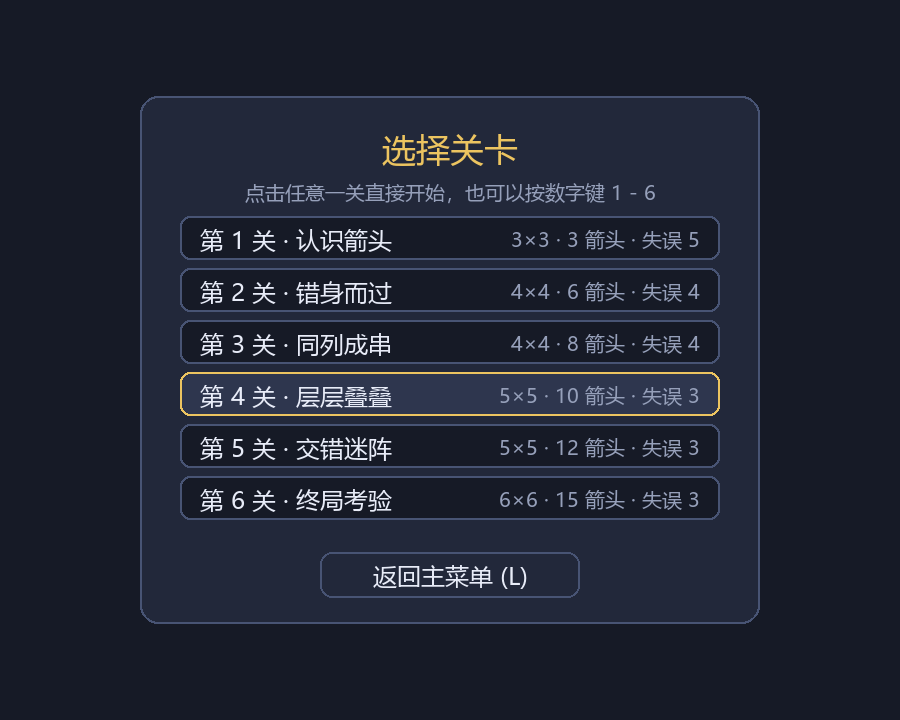
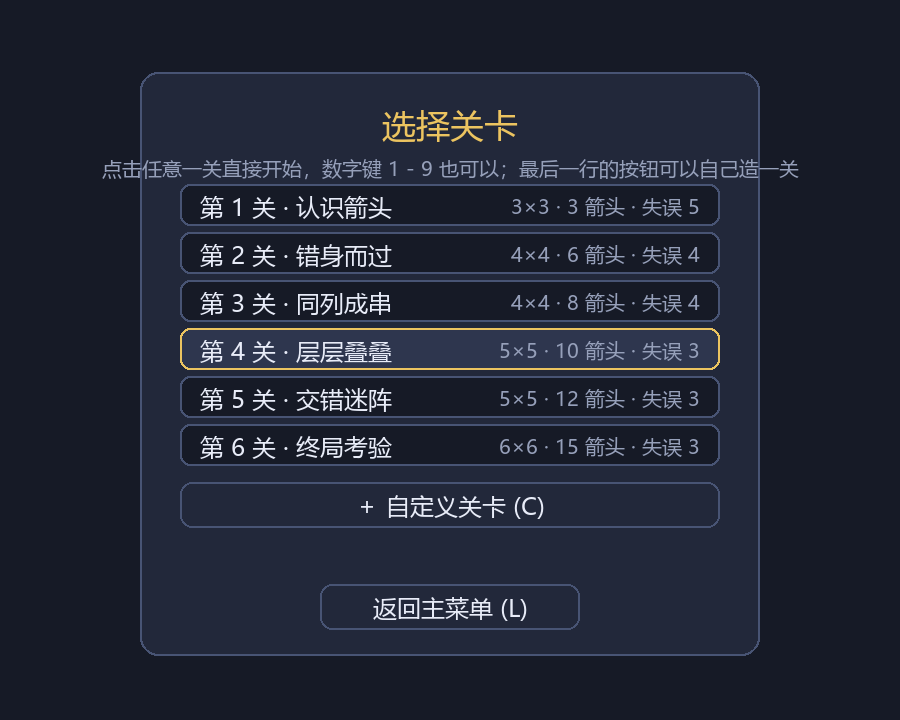
docs: 更新 README、测试记录、AIGC 记录与界面截图
- README：新增「自定义关卡」章节（参数范围、生成流程、难度评分）与两张新截图
- docs/test-record.md：新增第 7 节「自定义关卡测试补充」与 5 条新问题记录
- docs/aigc-log.md：新增第 9 次协作记录与总览表条目
- tools/capture_screens.py：增出自定义面板与自定义关卡截图（8 → 10 张）

diff --git a/tools/capture_screens.py b/tools/capture_screens.py
@@ -10,6 +10,7 @@
 from __future__ import annotations
 
 import os
+import random
 import sys
 from pathlib import Path
 
@@ -20,7 +21,9 @@ ROOT = Path(__file__).resolve().parents[1]
 sys.path.insert(0, str(ROOT))
 
 from game.app import Game  # noqa: E402
+from game.generator import Difficulty  # noqa: E402
 from game.session import Phase  # noqa: E402
+from game.setup import FIELD_ARROWS, FIELD_COLS, FIELD_ROWS  # noqa: E402
 from game.solver import solve  # noqa: E402
 from game.ui import layout  # noqa: E402
 
@@ -125,6 +128,27 @@ def main() -> int:
         else:
             session.next_level()
     shoot("07-all-clear.png")
+
+    # 9. 自定义关卡设置面板：地图大小 / 箭头数量 / 难度
+    session.back_to_menu()
+    session.open_level_select()
+    session.open_custom_setup()
+    setup = session.custom_setup
+    setup.set_value(FIELD_ROWS, 5)
+    setup.set_value(FIELD_COLS, 5)
+    setup.set_value(FIELD_ARROWS, 12)
+    setup.set_difficulty(Difficulty.HIGH)
+    setup.focus_on(FIELD_ARROWS)
+    game.screens.update(0.0)
+    shoot("01c-custom-setup.png")
+
+    # 10. 玩自定义关卡（固定随机种子，保证截图可以复现）
+    session.start_generated_custom_level(random.Random(2026))
+    game.screens.update(0.0)
+    screen.pointer = layout.cell_rect(
+        layout.board_rect(session.board.rows, session.board.cols), *first_free(session)
+    ).center
+    shoot("01d-custom-level.png")
 
     return 0
 

diff --git a/docs/test-record.md b/docs/test-record.md
@@ -17,9 +17,9 @@
 
 ```text
 $ python -m unittest discover -s tests -t . -v
-......................................................................
+.....................................................................................................................................
 ----------------------------------------------------------------------
-Ran 70 tests in 1.835s
+Ran 133 tests in 4.380s
 
 OK
 ```
@@ -28,9 +28,11 @@ OK
 | --- | --- | --- |
 | `tests/test_board.py` | 20 | 棋盘构造、字符解析、四种方向的路径检测、边界与负索引回归 |
 | `tests/test_levels.py` | 8 | 关卡数据合法性、箭头数量、每关可解、解序列可清空棋盘 |
-| `tests/test_session.py` | 30 | 失误、通关、失败、重新开始、撤销、计时、统计、选择关卡 |
-| `tests/test_ui_smoke.py` | 12 | 界面层事件接线、六个阶段渲染、选关交互、pygame 重启回归 |
-| **合计** | **70** | 全部通过 |
+| `tests/test_generator.py` | 19 | 生成参数夹紧、箭头数量上限、难度评分排序、2×2–6×6 全部箭头数量都能生成可解关卡 |
+| `tests/test_setup.py` | 19 | 自定义表单的范围夹紧、棋盘缩小后箭头数量联动、难度切换与生成 |
+| `tests/test_session.py` | 44 | 失误、通关、失败、重新开始、撤销、计时、统计、选择关卡、自定义关卡流程 |
+| `tests/test_ui_smoke.py` | 23 | 界面层事件接线、八个阶段渲染、选关与自定义面板交互、pygame 重启回归 |
+| **合计** | **133** | 全部通过 |
 
 ## 3. 作业要求的测试用例（T01–T06）
 
@@ -87,11 +89,46 @@ OK
 | 6 | 统计错误 | 全部通关界面显示「通关 7 / 6 关」 | 重复通关同一关会重复计数；改为用集合记录已通关关卡，重复通关只算一次 | 通过 |
 | 7 | 环境问题 | `pip install pygame` 长时间无进展 | 直连 PyPI 速度过慢；改用清华镜像 `-i https://pypi.tuna.tsinghua.edu.cn/simple` | 安装成功 |
 | 8 | 进程崩溃（新增选关功能后） | 测试进程在第二个「会绘制界面」的用例上直接崩溃，退出码 `0xC0000005`（访问违例） | 字体与箭头贴图被 `lru_cache` 缓存，`pygame.quit()` 后底层资源已释放，重新 `init` 再绘制就会崩；在两个模块加 `clear_cache()`，`Game` 初始化时调用 | 加 `test_survives_restarting_pygame` 回归用例，70 条全绿 |
+| 9 | 生成器覆盖不到高密度（新增自定义关卡时） | 箭头数量接近格子总数（例如 6×6 摆 36 个）时，随机摆放反复摆不满，`generate()` 拿不到任何候选 | 只靠「随机摆放」无法覆盖全部参数；补一套「洋葱式摆放」兜底：按离最近的边分层，从内层往外层逆向摆放，于是 1..行×列 的任意数量都能构造出可解关卡 | 2×2–6×6 共 325 组「大小 × 箭头数」自检，箭头数量全部正确、求解器复核全部通过 |
+| 10 | 参数联动缺失 | 把棋盘从 6×6 改小到 3×3 之后，箭头数量仍然可以是 36，超过新的格子总数 | 行/列变化后没有重新夹紧箭头数量；在 `CustomSetup.set_value()` 里补上「先改大小、再夹箭头」，界面上到上下限时把 `＋` / `－` 置灰 | 新增用例 `test_shrinking_the_board_clamps_the_arrow_count` 等，通过 |
+| 11 | 返回值语义不一致 | `CustomSetup._clamp_arrows()` 不管有没有变化都返回 `True`，和 `set_value()` 文档里「有变化才返回 True」矛盾 | 改成分支各自记录变化、只有真的夹紧时才返回 `True` | 相关用例通过 |
+| 12 | 测试样例本身无解 | 想用 `(">>", "<.")` 作为「被挡得更多」的对照样例，`score()` 却返回 -1，用例必然失败 | 这三个箭头互相挡死、谁也飞不出去，本身就是无解布局；换成 `(">v", "<.")`，分数 0.87 明显高于对照样例的 0.15 | 用例通过 |
+| 13 | 界面用例被新阶段影响 | 新增自定义面板后，`test_every_phase_can_be_rendered` 在「自定义面板」阶段直接点「开始游戏」按钮不会生效（该按钮不属于当前面板），后续快照全错位 | 快照序列里先 `back_to_menu()` 再开始游戏；同时把自定义面板与选关界面也纳入快照 | 快照数从 5 改为 7，通过 |
 
 ## 6. 运行与打包验证
 
 | 验证项 | 命令 | 结果 |
 | --- | --- | --- |
-| 离屏渲染截图 | `python tools/capture_screens.py` | 生成 8 张截图（含选关界面），无异常 |
-| 界面冒烟测试 | `python -m unittest tests.test_ui_smoke -v` | 12 个用例通过，六个阶段渲染正常 |
+| 离屏渲染截图 | `python tools/capture_screens.py` | 生成 10 张截图（含选关界面、自定义面板与自定义关卡），无异常 |
+| 界面冒烟测试 | `python -m unittest tests.test_ui_smoke -v` | 23 个用例通过，八个阶段渲染正常 |
 | 关卡数据自检 | `python tools/level_stats.py` | 6 关合计 54 个箭头，全部可解 |
+| 生成器全参数自检 | 遍历 2×2–6×6 的每种大小、每个箭头数量、三档难度 | 975 组参数全部「箭头数量正确 + 可解」 |
+
+## 7. 自定义关卡（附加功能）的测试补充
+
+| 编号 | 测试内容 | 预期结果 | 对应自动化用例 | 实际结果 | 是否通过 |
+| --- | --- | --- | --- | --- | --- |
+| C01 | 选关界面点「＋ 自定义关卡」 | 进入自定义关卡设置面板 | `test_custom_button_opens_the_setup_panel`、`test_c_key_opens_the_custom_panel` | 阶段变为「自定义关卡设置」，面板正常绘制 | 通过 |
+| C02 | 步进按钮调大 / 调小行数 | 数值按 1 增减，到上下限后按钮失效 | `test_stepper_buttons_change_the_board_size`、`test_plus_button_is_disabled_at_the_limit` | 行数 5 → 6 → 5；到 6 之后再点「＋」不再变化 | 通过 |
+| C03 | 棋盘从 6×6 改成 5×6 | 箭头数量自动夹到新上限 30 | `test_shrinking_the_board_clamps_the_arrows_in_the_panel`、`test_shrinking_the_board_clamps_the_arrow_count` | 36 → 30，面板数值同步刷新 | 通过 |
+| C04 | 箭头数量超出格子总数 | 夹到「行 × 列」，下限 1 | `test_arrows_stay_between_one_and_the_cell_count`、`test_max_arrows_follows_the_board_size` | 2×3 棋盘输入 99 → 6，输入 -99 → 1 | 通过 |
+| C05 | 三档难度用 best_layout 评分区分 | 高难度分数 ≥ 中 ≥ 低 | `test_difficulty_picks_from_the_same_candidate_pool`、`test_mistake_budget_follows_the_difficulty` | 同一批候选下三档评分单调不减；高难度失误次数更少 | 通过 |
+| C06 | 2×2–6×6、每个箭头数量都生成一关 | 箭头数量正确且一定有解 | `test_every_size_and_density_is_solvable`、`test_onion_layout_handles_every_density` | 325 组参数全部「数量正确 + 可解 + 解序列长度等于箭头数」 | 通过 |
+| C07 | 生成并开始自定义关卡 | 进入第 7 关并能正常通关 | `test_generate_button_starts_a_custom_level`、`test_custom_level_can_be_cleared_and_is_the_last_one` | HUD 显示「关卡 7 / 7」，清空后进入「全部通关」 | 通过 |
+| C08 | 重复生成自定义关卡 | 只占一个槽位（列表仍是 7 行） | `test_generating_twice_replaces_the_same_slot` | 关卡数量保持 7，最后一行换成新的布局 | 通过 |
+| C09 | 自定义关卡里重新开始 / 撤销 | 布局与失误次数还原，撤销不消耗失误 | `test_restart_restores_the_custom_level`、`test_undo_works_inside_a_custom_level` | 与内置关卡行为一致 | 通过 |
+| C10 | 界面自检：自定义面板与自定义关卡都能画出来 | 不抛异常、面板里各控件不重叠 | `test_every_phase_can_be_rendered`（7 张快照）、`tools/capture_screens.py` | 截图从 8 张增加到 10 张，人工核对无重叠 | 通过 |
+
+本人实际试玩自定义关卡的记录：
+
+| 设置 | 是否通关 | 备注 |
+| --- | --- | --- |
+| 3×3 / 4 箭头 / 低难度 | 待填写 | |
+| 5×5 / 12 箭头 / 中难度 | 待填写 | |
+| 6×6 / 20 箭头 / 高难度 | 待填写 | 开局被挡的箭头明显更多 |
+
+## 8. 结论
+
+- 全部 133 条自动化测试通过，作业要求的 T01–T06 与界面冒烟测试都在其中。
+- 内置 6 关与随机生成的自定义关卡都由求解器验证过存在通关顺序，不存在「实际上无法通关」的关卡。
+- 内置关卡由本人逐关试玩确认（见第 4 节表格），自定义关卡的试玩记录见第 7 节。

diff --git a/docs/aigc-log.md b/docs/aigc-log.md
@@ -11,11 +11,12 @@
 | 关卡生成 | Codex | 提出「逆向摆放」构造法：按消除顺序倒着摆箭头，保证关卡必然可解；并写出贪心求解器验证 | 6 关布局全部保证有解，没有再出现「关卡无解」 | 第 1 关改手写的 3 箭头教学关；布局按「开局被挡箭头数」人工挑选 |
 | 路径检测 | Codex | 给出四种方向的路径检测实现，并指出「用 `grid[row-1]` 在 `row=0` 时会负索引绕到棋盘底部」这个坑 | 核心逻辑一次写对 | 保留显式边界判断的 while 循环写法，补 `test_negative_index_wraparound_regression` 回归用例 |
 | 单元测试 | Codex | 生成 58 条 unittest 用例（棋盘 20 / 关卡 8 / 流程 23 / 界面 7） | 首次运行就有 3 个用例失败、5 个用例报错 | 定位到是测试代码自身三处错误（详见下文），修正后全部通过 |
-| 界面截图 | Codex | 用 SDL 的 dummy 驱动离屏渲染，写脚本自动生成 7 张界面截图 | 不需要人工操作就拿到 README 与博客素材，并暴露出两处视觉缺陷 | 修正浮字位置与结果面板布局后重新出图确认 |
+| 界面截图 | Codex | 用 SDL 的 dummy 驱动离屏渲染，写脚本自动生成界面截图（目前共 10 张） | 不需要人工操作就拿到 README 与博客素材，并暴露出两处视觉缺陷 | 修正浮字位置与结果面板布局后重新出图确认 |
 | 通关统计 | Codex | 初版每清空一关就 `cleared_levels += 1` | 截图中出现「通关 7 / 6 关」的错误统计 | 改为用集合记录已通关关卡，重复通关只算一次，并补测试 |
 | 动画与输入 | Codex | 建议动画播放期间锁定输入，避免一次点击被重复结算 | 点击手感稳定，不再出现连点误判 | 只锁鼠标点击，保留键盘与窗口事件的响应；补 UI 冒烟测试用例 |
 | 打包 exe | Codex | 给出 PyInstaller 打包命令与 `tools/build_exe.py` | `dist/ArrowArrowGame.exe`（约 27 MB）双击即可运行 | 可执行文件用 ASCII 名避免中文名带来的路径问题；`dist/`、`build/`、`*.spec` 加入 .gitignore |
 | 选关功能 | Codex | 新增 `LEVEL_SELECT` 阶段与「选择关卡」界面：关卡列表、鼠标命中、数字键 1–6 直接开局 | 主菜单可以直接挑任意一关开始，见 `docs/screenshots/01b-level-select.png` | 面板改成整屏绘制避免背后标题透出半截鬼影；把自检时发现的进程崩溃定位到字体/贴图缓存 |
+| 自定义关卡 | Codex | 新增 `game/generator.py`（随机摆放 + 洋葱式兜底 + best_layout 评分）、`game/setup.py` 参数表单、`Phase.CUSTOM_SETUP` 面板与 63 条新用例 | 2×2–6×6、任意箭头数量都能生成保证有解的关卡，三档难度按评分挑候选，见 `docs/screenshots/01c-custom-setup.png` | 修正「棋盘变小后箭头数不夹紧」、「夹紧函数返回值语义」、「拿无解样例当难度对照」三处问题；面板加高、入口按钮按关卡数量动态定位，避免与返回按钮挤在一起 |
 
 ## 详细过程
 
@@ -149,6 +150,42 @@ r_i…rn，所以只要按 rn…r1 的顺序摆放，并且摆放每个箭头时
 `test_survives_restarting_pygame`（绘制一次 → 退出 pygame → 新建 Game 再绘制）。
 顺带把选关面板从「半透明覆盖在主菜单上」改成整屏面板，避免背后的标题透出半截。
 
+### 9. 增加「自定义关卡」：让玩家自己定大小、箭头数和难度
+
+**我提出的要求**：在选关界面六关下面再加一个「自定义关卡」入口，让玩家自己输入地图大小
+（几×几，你帮我定一个范围保证界面不出问题）、初始箭头数量（大小定好之后自动算出理论上限、
+下限 1 个）、难度（高/中/低三档，用 best_layout 衡量）；随机生成的关卡先用求解器保证有解，
+再按难度挑候选；做完自动测试并提交。
+
+**AI 的做法**：把功能拆成三层——
+
+1. `game/generator.py`：候选生成与评分。参数范围定为 2×2 到 6×6（上限沿用界面里按 6×6
+   设计的棋盘尺寸），箭头数量上限就是格子总数，下限 1；
+2. `game/setup.py`：表单模型 `CustomSetup`，负责夹紧取值范围、在行/列变化后联动箭头数量上限；
+3. `game/session.py` + `game/ui/screens.py`：新增 `Phase.CUSTOM_SETUP` 阶段，选关面板下面按
+   「已有关卡数量」动态定位一个入口按钮，面板里是三行「− 数值 ＋」步进、三个难度按钮和生成按钮。
+
+**效果**：功能可用，但过程中有三处需要我自己判断的问题：
+
+1. **高密度摆不满**。第一版只会「随机摆放」，箭头数量接近格子总数（例如 6×6 摆 36 个）时
+   反复摆不满，`generate()` 会一个候选都拿不到。AI 补了一套「洋葱式摆放」：按离最近的边有多远
+   给格子分层，从内层往外层逆向摆放——一个箭头指向最近的边时，它前方只可能是更外圈的格子，
+   而那些箭头会更早被消除，于是 1..行×列 的任意数量都能构造出可解关卡。
+   我用 2×2 到 6×6 的全部箭头数量跑了 325 组自检，箭头数量全部正确、求解器复核全部通过。
+2. **`CustomSetup._clamp_arrows` 的返回值语义写错了**。它不管有没有变化都返回 `True`，
+   和 `set_value()` 文档里说的「有变化才返回 True」矛盾。改成分支各自记录变化、只有真的夹紧
+   时才返回 `True`。
+3. **测试样例本身是无解的**。我原本用 `(">>", "<.")` 当「被挡得更多」的对照样例，
+   可这三个箭头互相挡死、谁也飞不出去，`score()` 返回 -1，用例必然失败；
+   换成 `(">v", "<.")` 后分数 0.87，明显高于对照样例的 0.15。
+
+**我做的修改**：界面方面把选关面板加高（528 → 584 像素）、行高从 44 收到 42，自定义入口按钮
+按关卡数量动态定位，避免和「返回主菜单」挤在一起；难度按钮复用主色按钮样式表示「当前选中」，
+不额外引入状态字段；另外加了「填满」快捷键，免得玩家点 28 次「＋」才能填满 6×6 的棋盘。
+测试方面新增 `tests/test_generator.py` 与 `tests/test_setup.py`，并在 `test_session.py`、
+`test_ui_smoke.py` 里补了自定义关卡的流程与面板交互用例，用例总数从 70 涨到 133。
+（细节见 `docs/test-record.md` 第 7 节与 `docs/screenshots/01c-custom-setup.png`。）
+
 ## 使用体会
 
 - **AI 最擅长的是把「套路」一次说清**：逆向摆放保证关卡可解、贪心求解器不需要回溯、
@@ -157,6 +194,9 @@ r_i…rn，所以只要按 rn…r1 的顺序摆放，并且摆放每个箭头时
   测试用例里对棋盘边界的假设，都是它第一次没想周全的地方，需要自己盯住。
 - **不要相信没跑过的代码**：51 条用例第一轮就有 3 失败 5 报错，截图第一版就有两处重叠。
   所有结论都以实际运行结果为准。
+- **AI 交出来的第一版常常是「跑得起来但边界没想周全」**：自定义关卡里的三处问题——高密度摆不满、
+  夹紧函数的返回值语义、拿一个本身就无解的布局当难度对照——都属于这一类。参数范围、边界取值和
+  「样例到底成不成立」，还是得自己手算一遍、跑一遍才靠得住。
 - **崩溃要从资源生命周期找原因**：`0xC0000005` 这种访问违例通常不是判断逻辑写错，
   而是缓存的对象在被释放之后还在用。「单独跑通过、整包跑崩溃」这种差异，
   往往指向跨会话的状态残留，而不是当前这一步的代码。

diff --git a/README.md b/README.md
@@ -15,7 +15,9 @@
 - 上手容易但要动脑：多次点击的顺序很关键，先点的箭头会为后面的箭头让路。
 - 共 6 个关卡（3×3 到 6×6，合计 54 个箭头），每一关都经求解器验证存在完整通关顺序。
 - 每关有失误次数上限、实时计时、可以撤销上一步、随时重新开始。
-- 主菜单既可以直接开始游戏，也可以进入「选择关卡」界面挑任意一关开玩（鼠标点行或按数字键 1–6）。
+- 主菜单既可以直接开始游戏，也可以进入「选择关卡」界面挑任意一关开玩（鼠标点行或按数字键 1–9）。
+- 选关界面六关下面是「自定义关卡」：自己定地图大小（2×2 到 6×6）、箭头数量（1 到 行×列）和
+  难度（低/中/高），程序随机造出候选、用求解器保证一定有解，再按 best_layout 评分挑出符合难度的那一个。
 
 ## 游戏截图
 
@@ -34,6 +36,11 @@
 | 失败界面 | 全部通关 |
 | --- | --- |
 | ![失败](docs/screenshots/06-failed.png) | ![全部通关](docs/screenshots/07-all-clear.png) |
+
+| 自定义关卡设置 | 自定义关卡进行中 |
+| --- | --- |
+| ![自定义关卡设置](docs/screenshots/01c-custom-setup.png) | ![自定义关卡](docs/screenshots/01d-custom-level.png) |
+
 ## 开发环境
 
 | 项目 | 版本 |
@@ -66,7 +73,9 @@ pip install -r requirements.txt -i https://pypi.tuna.tsinghua.edu.cn/simple
 | 鼠标左键点击箭头 | 尝试让该箭头飞出棋盘 |
 | `R` | 重新开始本关（箭头布局与失误次数都会还原） |
 | `U` | 撤销上一步成功消除（不消耗失误） |
-| `L` | 在主菜单与选择关卡界面之间切换；选关界面里按 `1`–`6` 直接进对应关卡 |
+| `L` | 在主菜单与选择关卡界面之间切换；选关界面里按 `1`–`9` 直接进对应关卡 |
+| `C` | 在选关界面打开底部的「自定义关卡」面板 |
+| 自定义面板 | `↑` `↓` / `Tab` 换字段，`←` `→` 改数值，`1` `2` `3` 选难度，`F` 填满箭头，`Enter` 生成并开始，`Backspace` 返回选关 |
 | `Enter` / `Space` | 开始游戏、进入下一关、再玩一次 |
 | `Esc` | 退出游戏 |
 
@@ -100,6 +109,31 @@ Level(
 想自己加关卡，只要往 `LEVELS` 里追加一条，然后运行 `python tools/level_stats.py`
 确认它确实可以通关即可。
 
+## 自定义关卡（随机关卡生成器）
+
+选关界面最下面一行是「自定义关卡」，点进去可以自己定三件事：
+
+| 参数 | 范围 | 说明 |
+| --- | --- | --- |
+| 行数 / 列数 | 2 × 2 到 6 × 6 | 上限沿用界面里按 6×6 设计的棋盘：6 列刚好 467 像素宽，6 行排在 HUD 与按钮之间不会重叠 |
+| 箭头数量 | 1 到 行 × 列 | 上限就是格子总数——生成器保证这个范围内的任意数量都能造出可解关卡，界面上的「填满」按钮可以直接拉满 |
+| 难度 | 低 / 中 / 高 | 按键 best_layout 评分挑候选：高难度取分数最高的候选，低难度取最低分，中难度取中位数 |
+
+生成流程固定是「造候选 → 求解器复核 → 按难度挑选」：
+
+1. **随机摆放**：随机挑格子与方向放下箭头，只要求新箭头相对已经摆好的箭头前方通畅。
+   摆放顺序就是消除顺序的逆序，所以摆出来的关卡一定可解。
+2. **洋葱式摆放兜底**：高密度时随机摆放经常摆不满，于是按「离最近的边有多远」给格子分层，
+   从内层往外层逆向摆放。箭头指向最近的边时，它前方只可能是更外圈的格子，而那些箭头会更早
+   被消除，因此 **1 .. 行×列 的任意数量都能构造出可解关卡**。
+3. **求解器复核**：每个候选都用 `game/solver.py` 的 `solve()` 复核一遍，确认箭头数量正确、真的有解。
+4. **按难度挑**：候选分数来自 `game/generator.py` 的 `score()`，也就是
+   「开局被挡住的箭头比例 × 2.0 + 有多个选择的步数 × 0.05 + 只有唯一选择的步数 × 0.1」，
+   不可解的候选返回 -1。
+5. **失误次数**：按箭头数量与难度自动算出来——低 0.5 / 中 0.35 / 高 0.25 倍，再夹到 2 到 8 之间。
+
+生成的关卡以绿色高亮追加在选关列表的最后一行，可以反复重玩；再生成一次只会替换这一个槽位。
+
 ## 目录结构
 
 ```text
@@ -112,6 +146,8 @@ Level(
 │   ├── board.py                # 棋盘与路径检测（核心逻辑）
 │   ├── levels.py               # 6 个关卡的数据
 │   ├── solver.py               # 求解器：判断可解并给出通关顺序
+│   ├── generator.py            # 自定义关卡生成器（保证有解 + 难度评分）
+│   ├── setup.py                # 自定义关卡的参数表单（大小 / 箭头数 / 难度）
 │   ├── session.py              # 游戏流程状态机：失误、计时、撤销
 │   ├── app.py                  # pygame 主循环
 │   └── ui/                     # 布局、箭头绘制、控件、动画、界面
@@ -156,9 +192,10 @@ def is_free(self, row, col) -> bool:
 python -m unittest discover -s tests -t . -v
 ```
 
-共 70 个用例，覆盖路径检测（四种方向、边界、负索引回归）、关卡数据合法性、
-每个关卡可通关、失误与撤销、计时、选关流程，以及界面层的事件接线与渲染冒烟测试
-（包含「退出并重新初始化 pygame 后仍能正常绘制」的回归用例）。
+共 133 个用例，覆盖路径检测（四种方向、边界、负索引回归）、关卡数据合法性、
+每个关卡可通关、失误与撤销、计时、选关流程，自定义关卡的参数夹紧与生成
+（2×2 到 6×6 全部大小与全部箭头数量都能生成出可解关卡），
+以及界面层的事件接线与渲染冒烟测试（包含「退出并重新初始化 pygame 后仍能正常绘制」的回归用例）。
 详细的测试记录见 [docs/test-record.md](docs/test-record.md)。
 
 ## 生成截图
@@ -168,6 +205,7 @@ python tools/capture_screens.py
 ```
 
 使用 SDL 的 dummy 视频驱动离屏渲染，不需要显示器，也不需要人工操作，
+共生成 10 张截图（开始 / 选关 / 自定义面板 / 游戏 / 碰撞 / 过关 / 失败 / 全部通关等），
 输出到 `docs/screenshots/`。
 
 ## 打包成可执行文件
@@ -185,5 +223,6 @@ python tools/build_exe.py
   外部图片素材。
 - 界面字体使用 Windows 自带的中文字体（微软雅黑 / 黑体 / 宋体），按顺序自动回退；
   如果系统没有这些字体，会退回到 Pygame 默认字体，中文可能显示为方块。
-- 关卡布局由 `tools/generate_levels.py` 生成候选后人工筛选，玩法灵感来自微信小游戏
-  《一箭又一箭》，未使用其任何代码、素材或关卡。
+- 六个内置关卡的布局由 `tools/generate_levels.py` 生成候选后人工筛选；自定义关卡由
+  `game/generator.py` 用「随机摆放 + 洋葱式摆放」随机构造，再由求解器复核。
+- 玩法灵感来自微信小游戏《一箭又一箭》，未使用其任何代码、素材或关卡。
